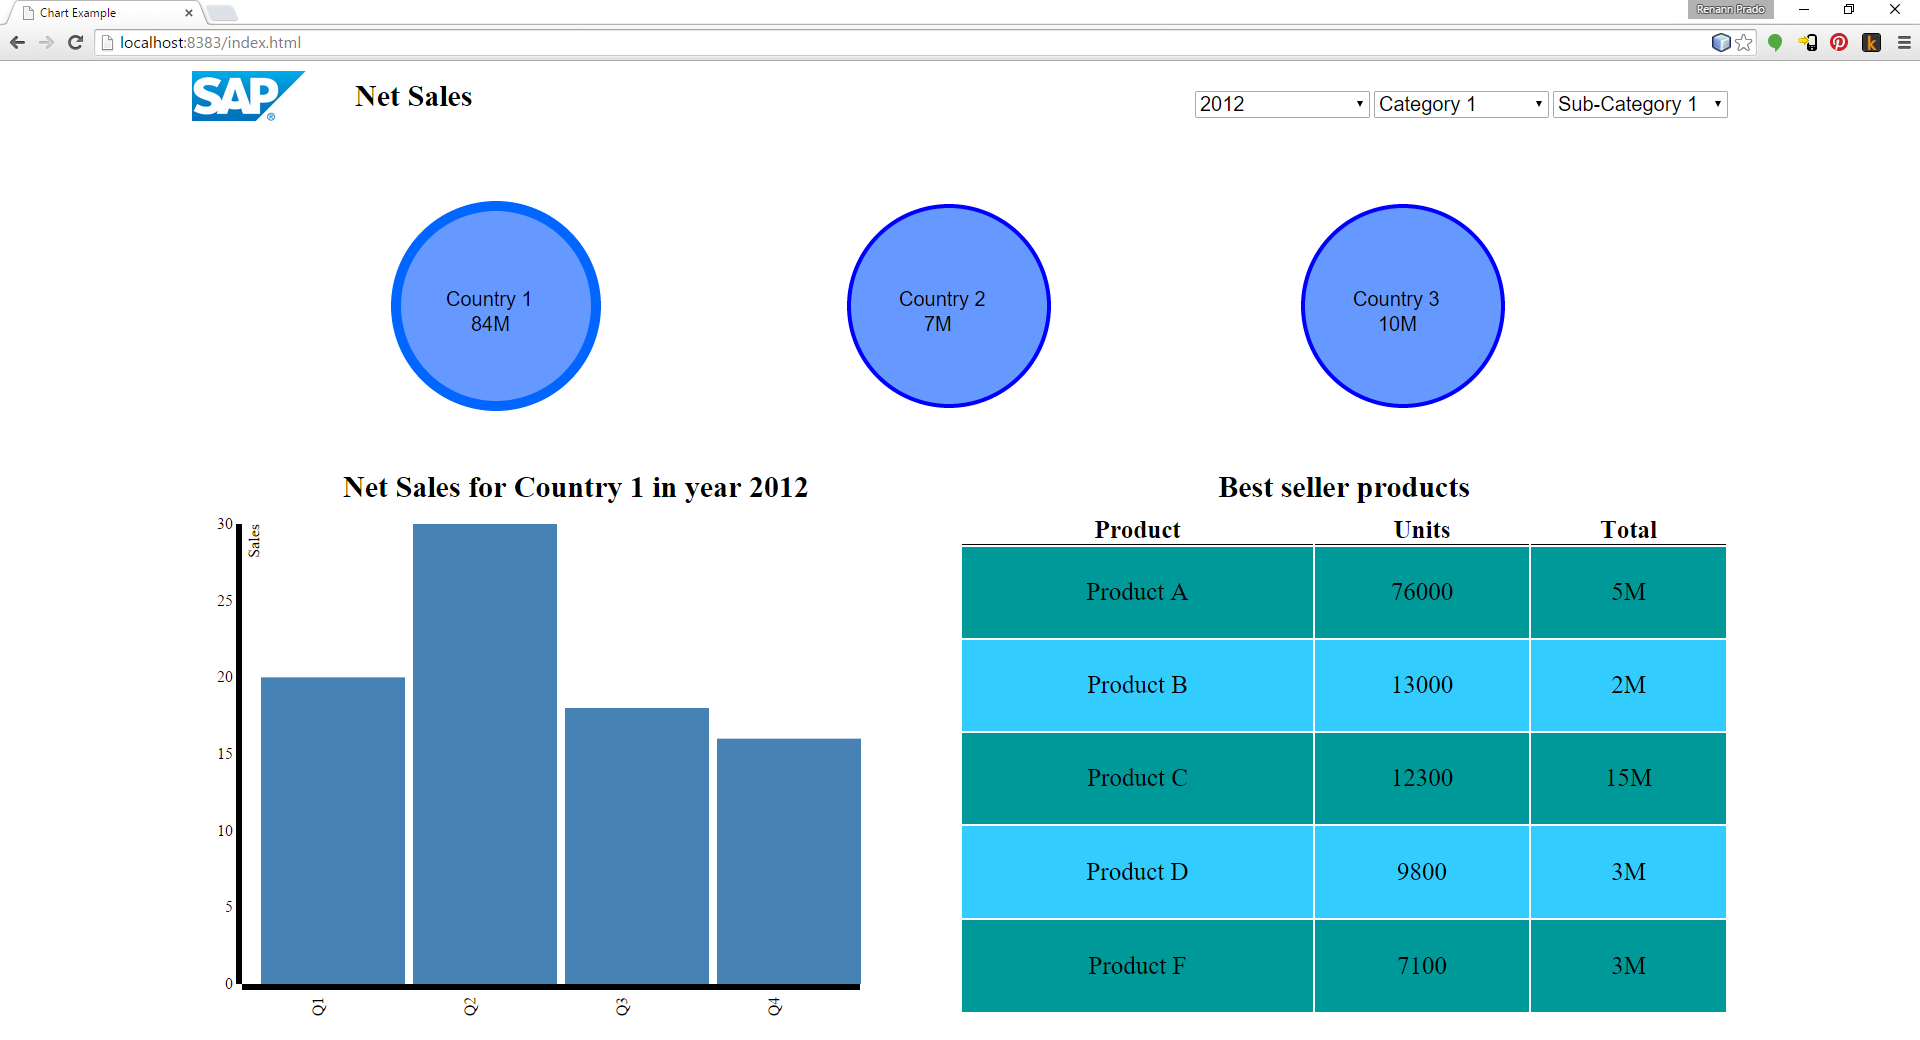
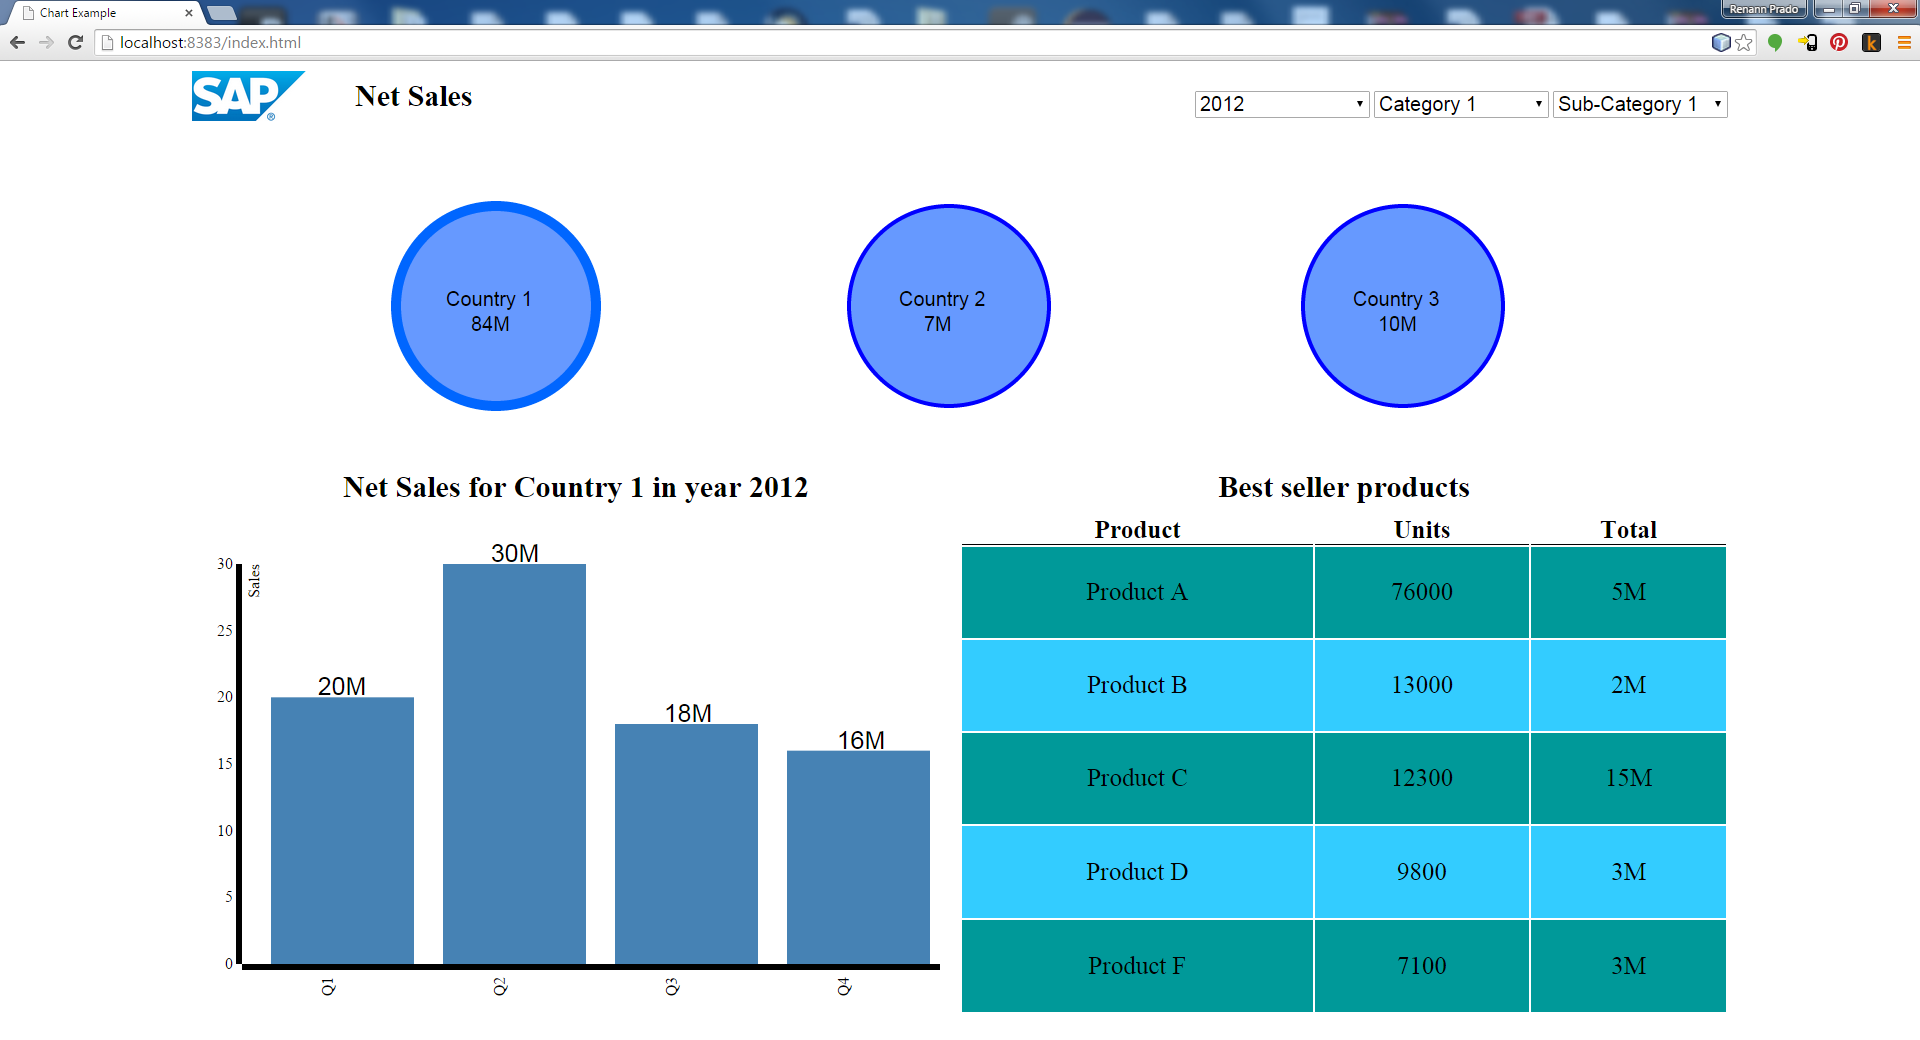
Now the numbers appear above the bars.

diff --git a/js/app.js b/js/app.js
@@ -158,6 +158,26 @@ chartExampleApp.controller("BarChartController", function circleControllerFuncti
                 .attr("height", function (d) {
                     return height - y(d.getSalesNumber());
                 });
+                
+        svg.selectAll("bar").data(workingDataSet)
+                .enter()
+                .append("text")
+                .text(function (d) 
+                {
+                    return d.sales;
+                })
+                .attr("x", function (d, i) 
+                {
+                    return i * (x.rangeBand() + 10) + 100;
+                })
+                .attr("y", function (d, i) 
+                {                    
+                    return y(d.getSalesNumber()) - 2; // -2 to be above the bars 
+                })
+                .attr("font-family", "sans-serif")
+                .attr("font-size", "25px")
+                .attr("fill", "black")
+                .attr("text-anchor", "middle");
     });
 });
 
